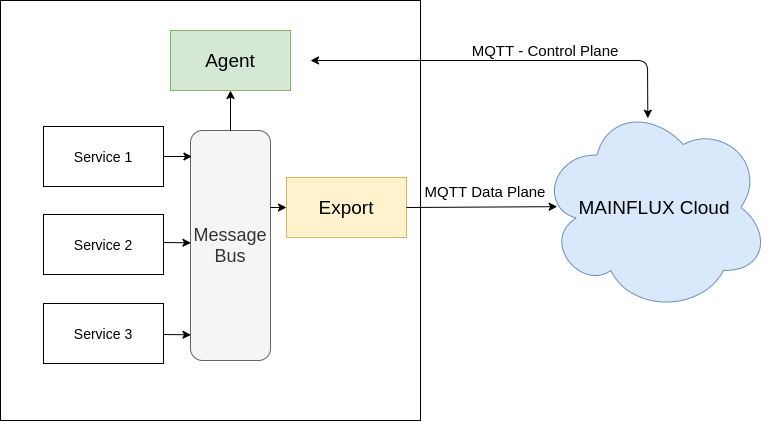
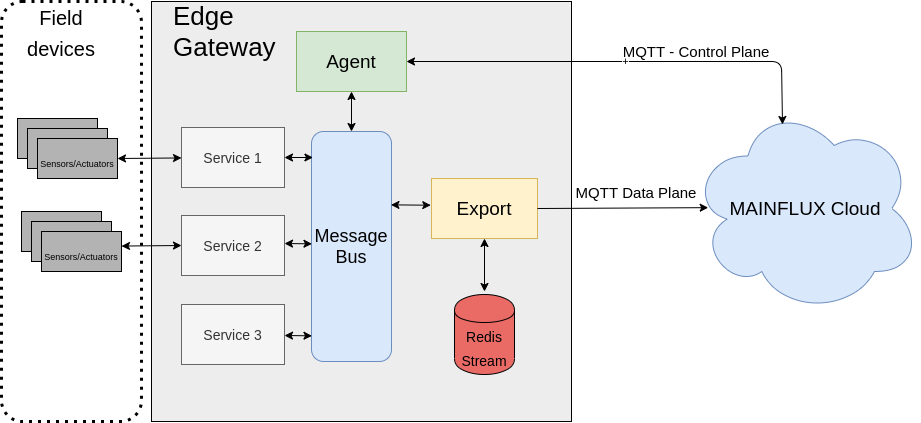
additional updates

diff --git a/docs/export.md b/docs/export.md
@@ -1,54 +1,152 @@
-Bridging between two mainflux instances can be done with [export](https://github.com/mainflux/export) service is build to bridge between two Mainflux instances. 
-For example we can run Mainflux on the gateway and we want to export the data to cloud instance of Mainflux as well. Or we can just export any data from local message bus on the gateway to the cloud.
-Export service is listening to the NATS and forwards payload to the specified MQTT channel.
+# Export
+Mainflux Export service can send message from one Mainflux cloud to another via MQTT, or it can send messages from edge gateway to Mainflux Cloud.
+Export service is subscribed to local message bus and connected to MQTT broker in the cloud.  
+Messages collected on local message bus are redirected to the cloud.
+When connection is lost, messages from local bus are stored into `Redis` stream. Upon connection reestablishment `Export` service consumes messages from `Redis` stream and sends it to the Mainflux cloud.
 
-## Run Export service
 
-Easiest way to run export service is 
+## Install
+Get the code:
 
-```
-    git clone github.com/mainflux/export
-    cd github.com/mainflux/export   
-    make
-    cd build
-    ./mainflux-export
-
+```bash
+go get github.com/mainflux/export
+cd $GOPATH/github.com/mainflux/export
 ```
 
-service will pickup config file  `github.com/mainflux/export/configs/config.toml`
-
+Make:
+```bash
+make
 ```
 
+## Usage
+
+```bash
+cd build
+./mainflux-export
+```
+
+## Configuration
+By default `Export` service looks for config file at [`../configs/config.toml`][conftoml] if no env vars are specified.  
+
+```toml
 [exp]
+  cache_pass = ""
+  cache_url = "localhost:6379"
+  cache_db = "0"
   log_level = "debug"
-  nats = "nats://localhost:4222"
+  nats = "localhost:4222"
   port = "8170"
 
 [mqtt]
-  ca_path = "ca.crt"
-  cert_path = "thing.crt"
-  username= "53a795db-e46c-4d75-8ddc-6d2975337a4f"
-  password = "e2032af3-7323-47d6-8e8d-abe9eb0a0a8f"
-  host = "tcp://142.93.118.47:18831"
-  mtls = false
-  priv_key_path = "thing.key"
-  qos = 0
-  retain = false
-  skip_tls_ver = false
+  username = "<thing_id>"
+  password = "<thing_password>"
+  ca = "ca.crt"
+  cert = "thing.crt"
+  mtls = "false"
+  priv_key = "thing.key"
+  retain = "false"
+  skip_tls_ver = "false"
+  url = "tcp://mainflux.com:1883"
 
+[[routes]]
+  mqtt_topic = "channel/<channel_id>/messages"
+  subtopic = "subtopic"
+  nats_topic = ".>"
+  type = "plain"
+  workers = 10
+```
+### Http port
+
+- `port` - HTTP port where status of `Export` service can be fetched.
+```bash
+curl -X GET http://localhost:8170/version
+{"service":"export","version":"0.0.1"}%
+``` 
+
+### Redis connection
+
+To configure `Redis` connection settings `cache_url`, `cache_pass`, `cache_db` in `config.toml` are used.
+
+### MQTT connection
+
+To establish connection to MQTT broker following settings are needed:
+- `username` - Mainflux <thing_id>
+- `password` - Mainflux <thing_key>
+- `url` - url of MQTT broker
+
+Additionally, you will need MQTT client certificates if you enable mTLS. To obtain certificates `ca.crt`, `thing.crt` and key `thing.key` follow instructions [here](https://mainflux.readthedocs.io/en/latest/authentication/#mutual-tls-authentication-with-x509-certificates).
+
+### Routes 
+
+Routes are being used for specifying which subscriber's topic(subject) goes to which publishing topic.
+Currently only MQTT is supported for publishing. To match Mainflux requirements `mqtt_topic` must contain `channel/<channel_id>/messages`, additional subtopics can be appended.
+
+- `mqtt_topic` - `channel/<channel_id>/messages/<custom_subtopic>`
+- `nats_topic` - `Export` service will be subscribed to NATS subject `export.<nats_topic>`
+- `subtopic` - messages will be published to MQTT topic `<mqtt_topic>/<subtopic>/<nats_subject>`, where dots in nats_subject are replaced with '/'
+- `workers` control number of workers that will be used for message forwarding.
+- `type` - specifies message transformation, currently only `plain` is supported, meaning no transformation.
+
+Before running `Export` service edit `configs/config.toml` and provide `username`, `password` and `url`
+ * `username` - matches `thing_id` in Mainflux cloud instance
+ * `password` - matches `thing_key`
+ * `channel` - MQTT part of the topic where to publish MQTT data (`channel/<channel_id>/messages` is format of mainflux MQTT topic) and plays a part in authorization.
+
+In order for `Export` service to listen on Mainflux NATS deployed on the same machine NATS port must be exposed.
+Edit Mainflux [docker-compose.yml][docker-compose]. NATS section must look like below:
+```
+  nats:
+    image: nats:1.3.0
+    container_name: mainflux-nats
+    restart: on-failure
+    networks:
+      - mainflux-base-net
+    ports:
+      - 4222:4222
+```
+  
+## Environment variables
+
+Service will look for `config.toml` first and if not found it will be configured with env variables and new config file specified with `MF_EXPORT_CONF_PATH` will be saved with values populated from env vars.  
+The service is configured using the [environment variables](env). Note that any unset variables will be replaced with their default values.
+
+For values in environment variables to take effect make sure that there is no `MF_EXPORT_CONF` file.
+
+If you run with environment variables you can create config file:
+```bash
+MF_EXPORT_PORT=8178 \
+MF_EXPORT_LOG_LEVEL=debug \
+MF_EXPORT_MQTT_HOST=tcp://localhost:1883 \
+MF_EXPORT_MQTT_USERNAME=<thing_id> \
+MF_EXPORT_MQTT_PASSWORD=<thing_key> \
+MF_EXPORT_MQTT_CHANNEL=<channel_id> \
+MF_EXPORT_MQTT_SKIP_TLS=true \
+MF_EXPORT_MQTT_MTLS=false \
+MF_EXPORT_MQTT_CA=ca.crt \
+MF_EXPORT_MQTT_CLIENT_CERT=thing.crt \
+MF_EXPORT_MQTT_CLIENT_PK=thing.key \
+MF_EXPORT_CONF_PATH=export.toml \
+../build/mainflux-export&
 ```
 
-to configure the `config.toml` so that it can connect to your Mainflux cloud instance you need to 
-provide 
+Service will be subscribed to NATS `export.>` subject and send messages to `channels/<MF_EXPORT_MQTT_CHANNEL>/messages`.
+Created `export.toml` you can edit to add different routes and use in next run.
 
-- `username` - Mainflux thing id
-- `password` - Mainflux thing key
-- `channel` -  should be in format channels/<channel_id>/messages where channel_id is Mainflux channel assigned to thing
-- `host` - MQTT host `tcp://host.name:1883` for plain or `tcps://host.name:8883` for mtls
+## How to save config via agent
 
-you can start export service in docker as well
-```docker-compose -f docker/docker-compose.yml up```
+Configuration file for `Export` service can be send over MQTT using [Agent][agent] service.
 
-this requires that you have previously brought up Mainflux instance with docker-compose as it depends on docker network created from `docker/docker-compose.yml`
+```
+mosquitto_pub -u <thing_id> -P <thing_key> -t channels/<control_ch_id>/messages/req -h localhost -p 18831  -m  "[{\"bn\":\"1:\", \"n\":\"config\", \"vs\":\"<config_file_path>, <file_content_base64>\"}]"
+```
 
-If you are running MTLS on your Mainflux cloud instance you will need to setup export service for MTLS communication. You need to set `mtls=true` and you will need to provide `thing.crt` and `thing.key` as well as `ca.crt` that you produced for provisioned thing [MTLS Authentication](./authentication.md)
+`vs="config_file_path, file_content_base64"` - vs determines where to save file and contains file content in base64 encoding payload:
+```
+b,_ := toml.Marshal(export.Config)
+payload := base64.StdEncoding.EncodeToString(b)
+```
+
+[conftoml]: (https://github.com/mainflux/export/blob/master/configs/config.toml)
+[docker-compose]: (https://github.com/mainflux/mainflux/docker/docker-compose.yml)
+[env]: (https://github.com/mainflux/export#environmet-variables)
+[agent]: (https://github.com/mainflux/agent)

diff --git a/docs/edge-deployment.md b/docs/edge-deployment.md
@@ -6,7 +6,7 @@ Start the Mainflux:
 docker-compose -f docker/docker-compose.yml up
 ```
 
-Start the Boostrap service:
+Start the Bootstrap service:
 
 ```bash
 docker-compose -f docker/addons/bootstrap/docker-compose.yml up
@@ -22,6 +22,8 @@ Create user:
 ```bash
 mainflux-cli -m http://localhost:8180 users create test@email.com 12345678
 ```
+
+Provision a gateway:
 
 ```bash
 curl -s -S  -X POST  http://localhost:8190/mapping -H "Authorization: $TOK" -H 'Content-Type: application/json'   -d '{"name":"testing",  "external_id" : "54:FG:66:DC:43", "external_key":"223334fw2" }' | jq
@@ -83,10 +85,10 @@ git clone https://github.com/mainflux/export
 make
 ```
 Edit the `configs/config.toml` setting 
-- `username` to thing from the results of provision request
-- `password` to key from the results of provision request
-- `mqtt_topic` in routes set to `channels/<channel_data_id>/messages` from results of provision
-- `nats_topic` put whatever you need, export will subscribe to `export.<nats_topic>` and forward messages to MQTT
+- `username` - thing from the results of provision request
+- `password` - key from the results of provision request
+- `mqtt_topic` - in routes set to `channels/<channel_data_id>/messages` from results of provision
+- `nats_topic` - whatever you need, export will subscribe to `export.<nats_topic>` and forward messages to MQTT
   
 ```toml
 [exp]

diff --git a/docs/edge.md b/docs/edge.md
@@ -8,5 +8,7 @@ Services that can be used on gateway to enable data and control plane for edge:
 * [Agent][agent]
 * [Export][export]
 
-![Edge][edge]
+![Edge](img/edge/edge.png)
 
+[agent]: (https://github.com/mainflux/agent)
+[export]: (https://github.com/mainflux/export)
